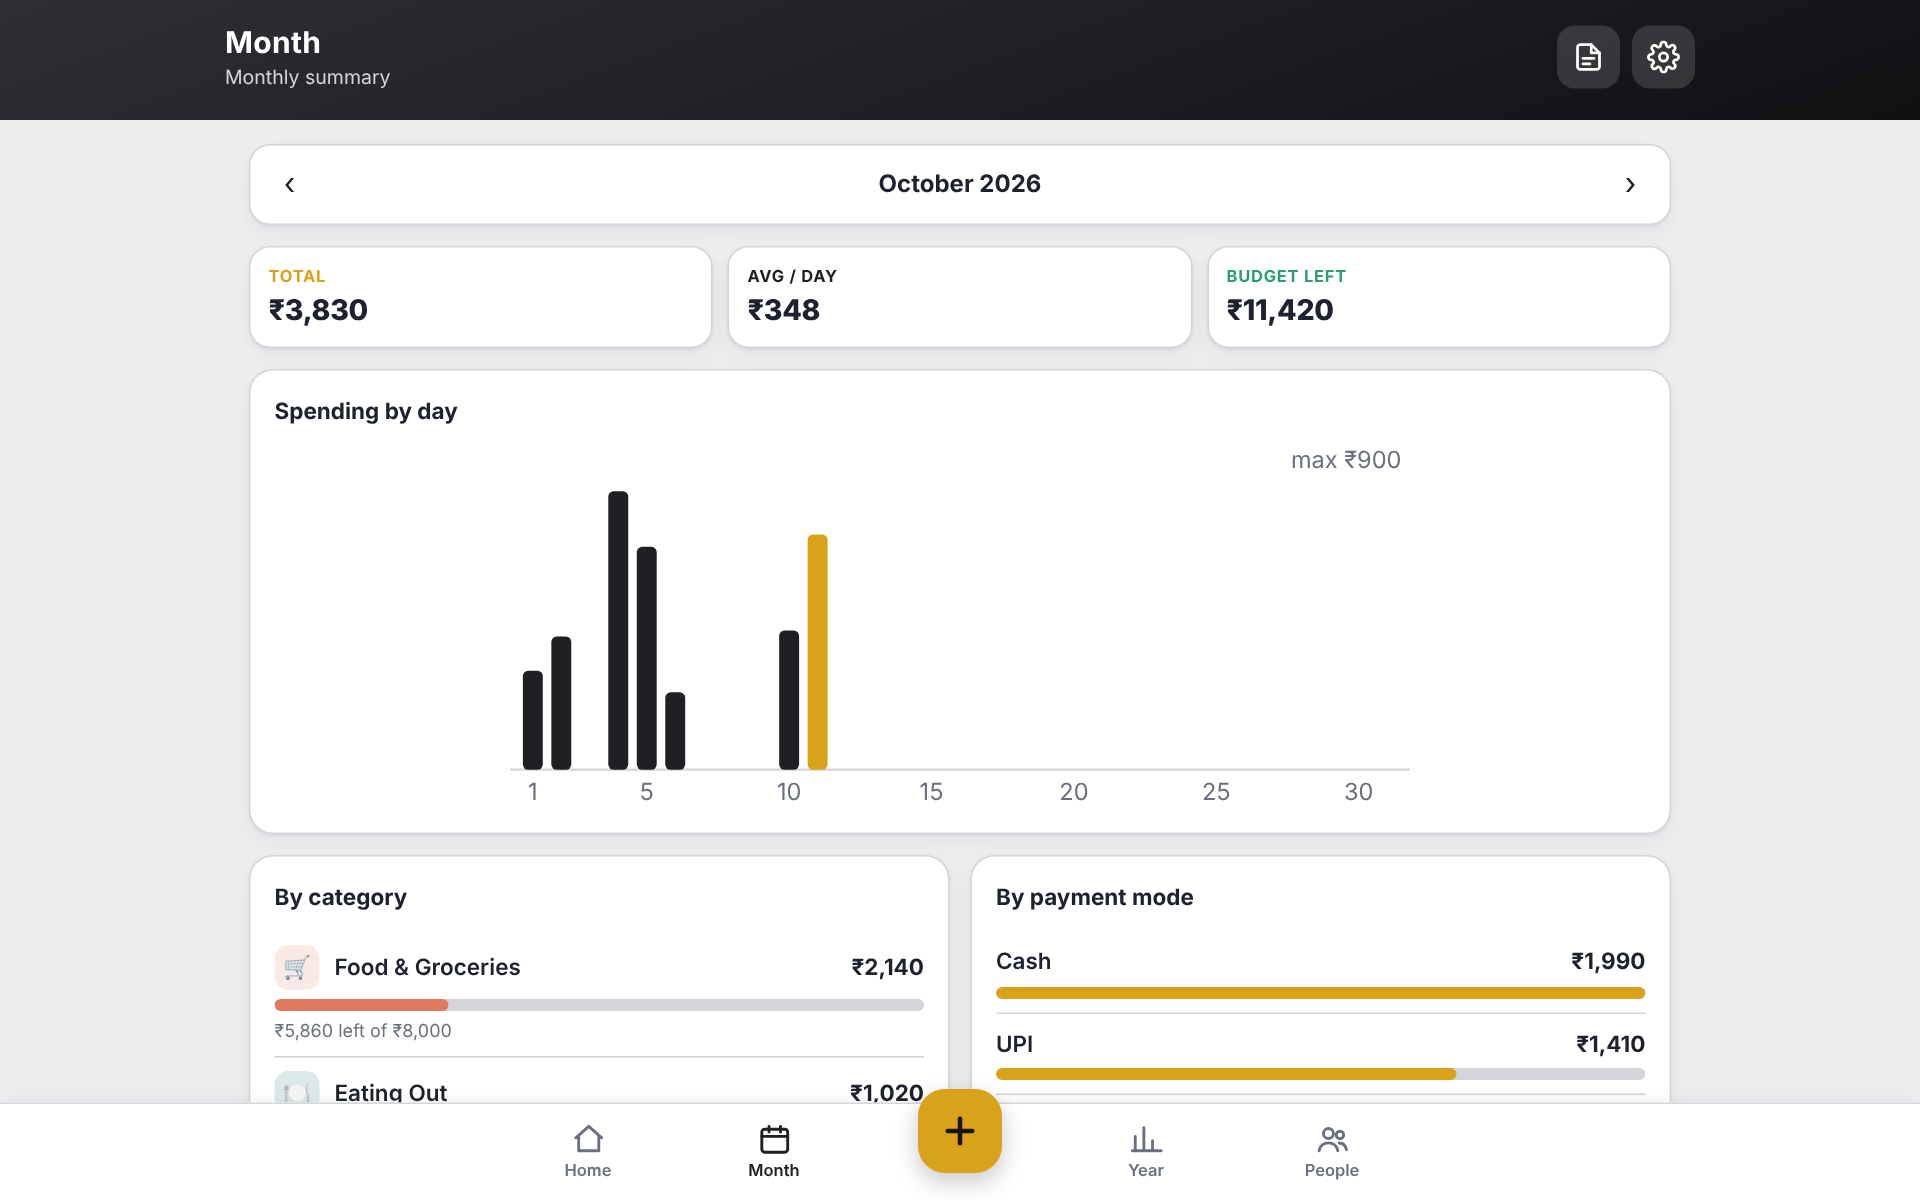
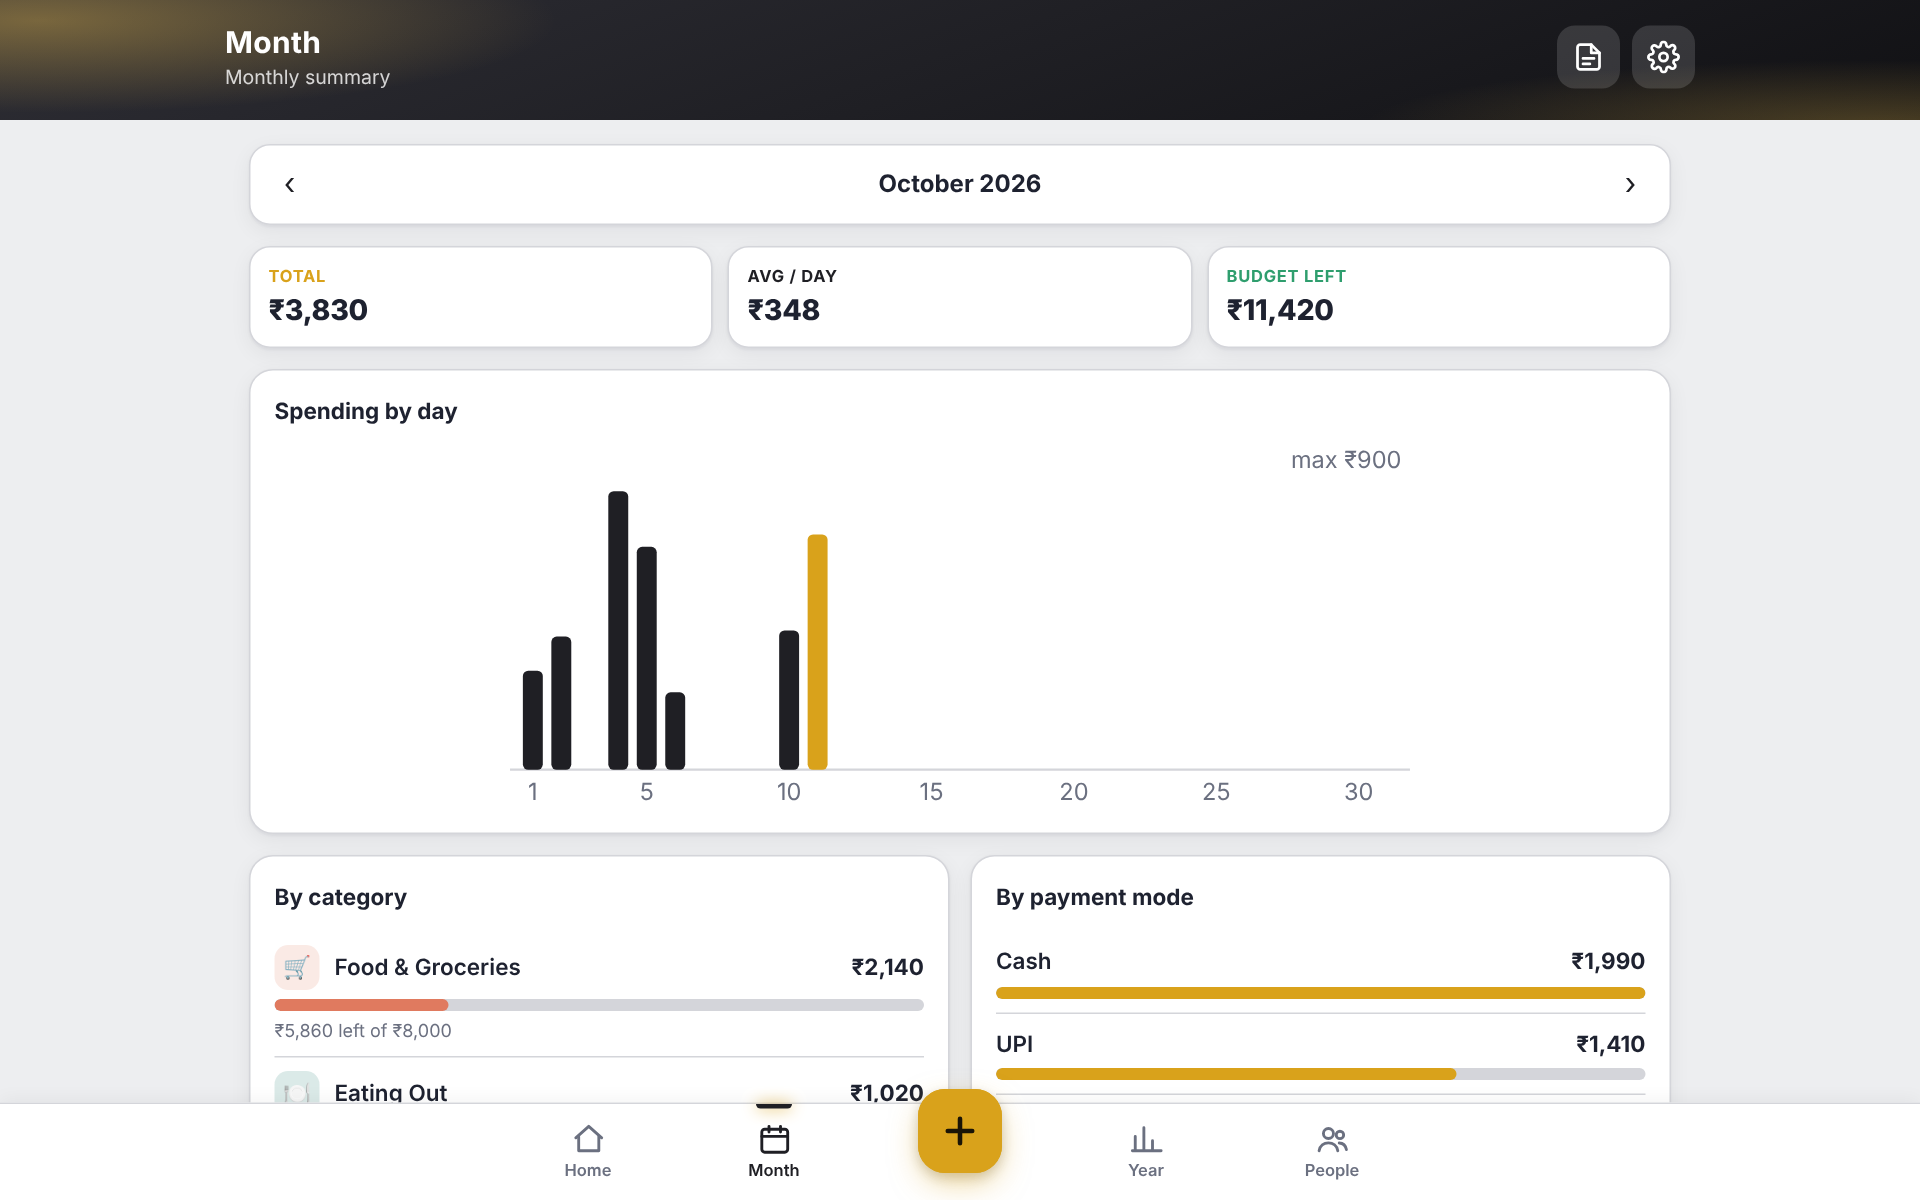
Colour effects: glowing header, flowing month-card border, bar shine, tap ripple, theme colour splash

diff --git a/index.html b/index.html
@@ -15,14 +15,14 @@
 <link rel="apple-touch-icon" href="icons/apple-touch-icon.png">
 <style>
 /* ---- colour themes: P = main colour, PD = main colour in dark mode, A = accent, T = third, H1/H2 = header ---- */
-[data-theme="gold"]  {--P:#1F1F24;--PD:#E2B64B;--A:#D9A21B;--T:#2F9E6E;--H1:#2E2E35;--H2:#111114;--onP:#fff;--onPD:#1A1406;--onA:#1A1406}
+[data-theme="gold"]  {--P:#1F1F24;--PD:#E2B64B;--A:#D9A21B;--T:#2F9E6E;--H1:#2E2E35;--H2:#111114;--onP:#fff;--onPD:#1A1406;--onA:#1A1406;--G:#D9A21B;--GD:#E2B64B}
 /* Purple / Blue: main colour first, black second. Black & White: black in light mode, white in dark mode. AD/onAD = second colour in dark mode (the screen is already black, so a stronger shade of the main colour is used) */
-[data-theme="purple"]{--P:#5B2EDB;--PD:#B69CFF;--A:#17141F;--AD:#8B5CF6;--T:#2F9E6E;--H1:#6D3FE0;--H2:#3B1A94;--onP:#fff;--onPD:#1A1033;--onA:#fff;--onAD:#fff}
-[data-theme="blue"]  {--P:#2058D8;--PD:#8DB8FF;--A:#14171F;--AD:#3B82F6;--T:#2F9E6E;--H1:#2E6BEA;--H2:#173A8C;--onP:#fff;--onPD:#0A1830;--onA:#fff;--onAD:#fff}
-[data-theme="mono"]  {--P:#111111;--PD:#F2F2F2;--A:#000000;--AD:#FFFFFF;--T:#2F9E6E;--H1:#2B2B2B;--H2:#000000;--onP:#fff;--onPD:#111111;--onA:#fff;--onAD:#000000}
+[data-theme="purple"]{--P:#5B2EDB;--PD:#B69CFF;--A:#17141F;--AD:#8B5CF6;--T:#2F9E6E;--H1:#6D3FE0;--H2:#3B1A94;--onP:#fff;--onPD:#1A1033;--onA:#fff;--onAD:#fff;--G:#8B5CF6;--GD:#B69CFF}
+[data-theme="blue"]  {--P:#2058D8;--PD:#8DB8FF;--A:#14171F;--AD:#3B82F6;--T:#2F9E6E;--H1:#2E6BEA;--H2:#173A8C;--onP:#fff;--onPD:#0A1830;--onA:#fff;--onAD:#fff;--G:#3B82F6;--GD:#8DB8FF}
+[data-theme="mono"]  {--P:#111111;--PD:#F2F2F2;--A:#000000;--AD:#FFFFFF;--T:#2F9E6E;--H1:#2B2B2B;--H2:#000000;--onP:#fff;--onPD:#111111;--onA:#fff;--onAD:#000000;--G:#8A8A8A;--GD:#FFFFFF}
 :root{
   --bg:#F5F6F8; --card:#FFFFFF; --text:#1E2230; --muted:#6B7080; --line:#E7E8EE;
-  --pri:var(--P); --on-pri:var(--onP); --acc:var(--A); --on-acc:var(--onA); --third:var(--T); --big:var(--H2);
+  --pri:var(--P); --on-pri:var(--onP); --acc:var(--A); --on-acc:var(--onA); --third:var(--T); --big:var(--H2); --glow:var(--G);
   --pri-l:#EEF0F4; --acc-l:#FDF0EA; --red:#C8443A; --green:#22885A; --red-l:#FBEAEA; --green-l:#E5F4EC;
   --shadow:0 1px 2px rgba(20,20,40,.05),0 4px 14px rgba(20,20,40,.06);
   --radius:16px; --nav-h:64px;
@@ -36,7 +36,7 @@
 }
 @media (prefers-color-scheme:dark){
   :root{ --bg:#0D0F14; --card:#171A21; --text:#E8EAF0; --muted:#9AA0AE; --line:#2A2E38;
-    --pri:var(--PD); --on-pri:var(--onPD); --big:var(--PD); --acc:var(--AD, var(--A)); --on-acc:var(--onAD, var(--onA)); --red:#F07167; --green:#5CC98A;
+    --pri:var(--PD); --on-pri:var(--onPD); --big:var(--PD); --acc:var(--AD, var(--A)); --on-acc:var(--onAD, var(--onA)); --glow:var(--GD); --red:#F07167; --green:#5CC98A;
     --pri-l:#232733; --acc-l:#2E241F; --red-l:#33201F; --green-l:#1C2E25; --shadow:none; color-scheme:dark; }
   @supports (color: color-mix(in srgb, red 50%, blue)){
     :root{ --bg:color-mix(in srgb, var(--P) 9%, #0B0D12); --card:color-mix(in srgb, var(--P) 7%, #15181F);
@@ -370,6 +370,57 @@ main.fresh svg.chart text.v{animation:fadeIn .4s ease .5s both}
 .pill.on,.seg button.on{animation:pop .3s ease}
 .conf{position:fixed;width:9px;height:14px;border-radius:2px;z-index:70;pointer-events:none;left:50%;top:42%}
 html.theme-fade, html.theme-fade *{transition:background-color .45s ease,color .45s ease,border-color .45s ease,fill .45s ease!important}
+/* ================= colour effects (follow the theme; motion stops when Animations is off) ================= */
+header.top{position:relative;overflow:hidden;isolation:isolate}
+header.top::before{content:"";position:absolute;inset:-60% -25%;z-index:-1;pointer-events:none;
+  background:radial-gradient(closest-side at 18% 35%, rgba(255,255,255,.10), transparent),
+             radial-gradient(closest-side at 82% 75%, rgba(255,255,255,.07), transparent);
+  animation:aurora 16s ease-in-out infinite alternate}
+header.top::after{content:"";position:absolute;left:0;bottom:0;width:45%;height:2px;pointer-events:none;
+  background:linear-gradient(90deg,transparent,rgba(255,255,255,.55),transparent);transform:translateX(-110%);
+  animation:lineSweep 6s ease-in-out 1s infinite}
+@keyframes aurora{0%{transform:translate(-7%,-5%) rotate(0deg) scale(1)}100%{transform:translate(7%,6%) rotate(10deg) scale(1.12)}}
+@keyframes lineSweep{0%{transform:translateX(-110%)}55%,100%{transform:translateX(330%)}}
+.hero{position:relative;isolation:isolate}
+.hero::before{content:"";position:absolute;inset:-1px;border-radius:inherit;padding:1.6px;pointer-events:none;
+  background:linear-gradient(115deg,transparent 0%,var(--glow) 22%,transparent 42%,transparent 58%,var(--pri) 78%,transparent 100%);
+  background-size:260% 260%;animation:borderFlow 8s linear infinite;
+  -webkit-mask:linear-gradient(#000 0 0) content-box,linear-gradient(#000 0 0);-webkit-mask-composite:xor;
+  mask:linear-gradient(#000 0 0) content-box exclude,linear-gradient(#000 0 0)}
+@keyframes borderFlow{0%{background-position:0% 50%}100%{background-position:260% 50%}}
+.bar > i{position:relative;overflow:hidden}
+.bar > i::after{content:"";position:absolute;inset:0;pointer-events:none;
+  background:linear-gradient(90deg,transparent,rgba(255,255,255,.5),transparent);transform:translateX(-100%);
+  animation:barSheen 3.4s ease-in-out 1.4s infinite}
+@keyframes barSheen{0%{transform:translateX(-100%)}45%,100%{transform:translateX(100%)}}
+.fab{position:relative}
+.fab::before{content:"";position:absolute;inset:0;border-radius:inherit;background:var(--acc);z-index:-1;pointer-events:none;
+  animation:halo 2.8s ease-out infinite}
+@keyframes halo{0%{transform:scale(1);opacity:.5}70%,100%{transform:scale(1.55);opacity:0}}
+.tab{position:relative}
+.tab.on::before{content:"";position:absolute;top:0;left:50%;width:24px;margin-left:-12px;height:3px;border-radius:0 0 4px 4px;
+  background:var(--pri);box-shadow:0 0 10px var(--glow);animation:growX .35s cubic-bezier(.2,.75,.2,1) both}
+.rp-host{position:relative;overflow:hidden} .rp-clip{overflow:hidden}
+.rp{position:absolute;border-radius:50%;pointer-events:none;background:currentColor;opacity:.2;transform:scale(0);
+  animation:ripple .55s ease-out forwards}
+@keyframes ripple{to{transform:scale(1);opacity:0}}
+.splash{position:fixed;width:20px;height:20px;border-radius:50%;z-index:65;pointer-events:none}
+@supports (color: color-mix(in srgb, red 50%, blue)){
+  header.top::before{background:radial-gradient(closest-side at 18% 35%, color-mix(in srgb, var(--GD) 42%, transparent), transparent),
+                                radial-gradient(closest-side at 82% 75%, color-mix(in srgb, var(--GD) 28%, transparent), transparent)}
+  header.top::after{background:linear-gradient(90deg,transparent,color-mix(in srgb, var(--GD) 85%, #fff),transparent)}
+  .hero{box-shadow:var(--shadow),0 14px 34px -16px color-mix(in srgb, var(--glow) 60%, transparent)}
+  .bar > i{background:linear-gradient(90deg,var(--pri),color-mix(in srgb, var(--pri) 55%, var(--glow)))}
+  .fab{box-shadow:0 8px 22px -4px color-mix(in srgb, var(--acc) 55%, transparent),0 3px 8px rgba(0,0,0,.18)}
+  .tile{background:radial-gradient(150px 90px at 0% 0%, color-mix(in srgb, var(--glow) 14%, transparent), transparent 72%),var(--card)}
+}
+.bar.over > i{background:var(--red)}
+@supports ((-webkit-background-clip:text) or (background-clip:text)){
+  .hero .big{background:linear-gradient(100deg,var(--big) 0%,var(--big) 40%,var(--glow) 50%,var(--big) 60%,var(--big) 100%);
+    background-size:260% 100%;background-position:100% 0;-webkit-background-clip:text;background-clip:text;
+    color:transparent;-webkit-text-fill-color:transparent;animation:sheen 7s ease-in-out 1.2s infinite}
+}
+@keyframes sheen{0%{background-position:100% 0}30%,100%{background-position:0% 0}}
 /* on/off switch */
 .switch2{width:52px;height:32px;border-radius:99px;background:var(--line);position:relative;flex:none;transition:background-color .2s ease}
 .switch2::after{content:"";position:absolute;top:3px;left:3px;width:26px;height:26px;border-radius:50%;background:#fff;box-shadow:0 1px 3px rgba(0,0,0,.25);transition:transform .22s cubic-bezier(.2,.8,.2,1)}
@@ -658,6 +709,31 @@ function animOut(id, done){        // slide an item away, then redraw
   if(!el || !motionOK()){ done(); return; }
   el.style.height = el.offsetHeight + "px"; el.classList.add("leaving");
   setTimeout(done, 280);
+}
+// ---- colour effects: ripple where you tap, colour splash when the theme changes ----
+let lastTap = null;
+document.addEventListener("pointerdown", (e)=>{
+  lastTap = {x:e.clientX, y:e.clientY};
+  if(!motionOK()) return;
+  const el = e.target.closest(".btn,.tile,.item,.chip,.pill,.th,.seg button,.srow");
+  if(!el) return;
+  const pos = getComputedStyle(el).position;
+  el.classList.add(pos==="static" ? "rp-host" : "rp-clip");
+  const r = el.getBoundingClientRect(), size = Math.max(r.width, r.height)*2.2;
+  const d = document.createElement("span"); d.className = "rp";
+  d.style.cssText = `width:${size}px;height:${size}px;left:${e.clientX-r.left-size/2}px;top:${e.clientY-r.top-size/2}px`;
+  el.appendChild(d); setTimeout(()=>d.remove(), 600);
+}, {passive:true});
+function colourSplash(col){
+  if(!motionOK()) return;
+  const x = lastTap ? lastTap.x : innerWidth/2, y = lastTap ? lastTap.y : innerHeight/2;
+  const r = Math.hypot(Math.max(x, innerWidth-x), Math.max(y, innerHeight-y)), k = r/10;
+  const d = document.createElement("i"); d.className = "splash";
+  d.style.cssText = `left:${x}px;top:${y}px;background:${col}`; document.body.appendChild(d);
+  d.animate([{transform:"translate(-50%,-50%) scale(0)", opacity:.6},
+             {transform:`translate(-50%,-50%) scale(${k})`, opacity:.35, offset:.55},
+             {transform:`translate(-50%,-50%) scale(${k})`, opacity:0}],
+            {duration:800, easing:"cubic-bezier(.2,.7,.2,1)"}).onfinish = ()=>d.remove();
 }
 function confetti(){
   if(!motionOK()) return;
@@ -1704,6 +1780,7 @@ document.addEventListener("click", async (ev)=>{
   else if(act==="restore") $("#restoreFile").click();
   else if(act==="theme"){
     const h=document.documentElement; if(motionOK()){ h.classList.add("theme-fade"); setTimeout(()=>h.classList.remove("theme-fade"),550); }
+    if(THEMES[a.dataset.id] && a.dataset.id!==D.settings.theme) colourSplash(THEMES[a.dataset.id].c[0]);
     D.settings.theme=a.dataset.id; applyTheme(); save(); render(); }
   else if(act==="toggleAnim"){ D.settings.anim = D.settings.anim===false; applyTheme(); save(); render(); toast(D.settings.anim?"Animations on":"Animations off"); }
   else if(act==="openPeople") go("people");

diff --git a/sw.js b/sw.js
@@ -1,6 +1,6 @@
 // Offline support: keeps a copy of the app files on the device.
 // Your expense data is NOT here — it lives only in the app's local storage.
-const CACHE = "expense-app-v18";
+const CACHE = "expense-app-v19";
 const FILES = [
   "./",
   "./index.html",

diff --git a/README.md b/README.md
@@ -83,6 +83,7 @@
 ### 🎨 Look & feel
 - 4 colour themes: **Black & Gold** (default), **Purple & Black**, **Blue & Black** and **Black & White**.
 - Automatic **dark mode**.
+- Colour effects that follow your theme: a glowing header, a flowing border on the month card, shine on progress bars, a ripple where you tap, and a colour splash when you change the theme.
 - Smooth animations: counting numbers, growing charts, confetti when you settle up. You can switch them off.
 
 ### 💾 Backup & export
